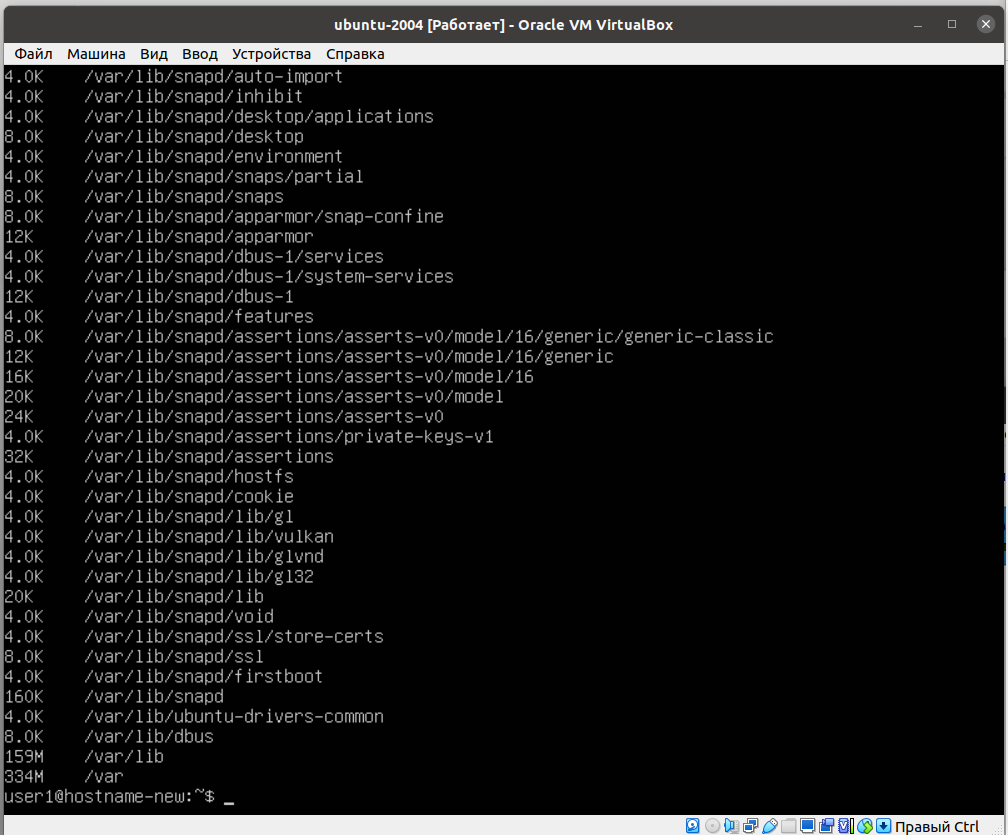
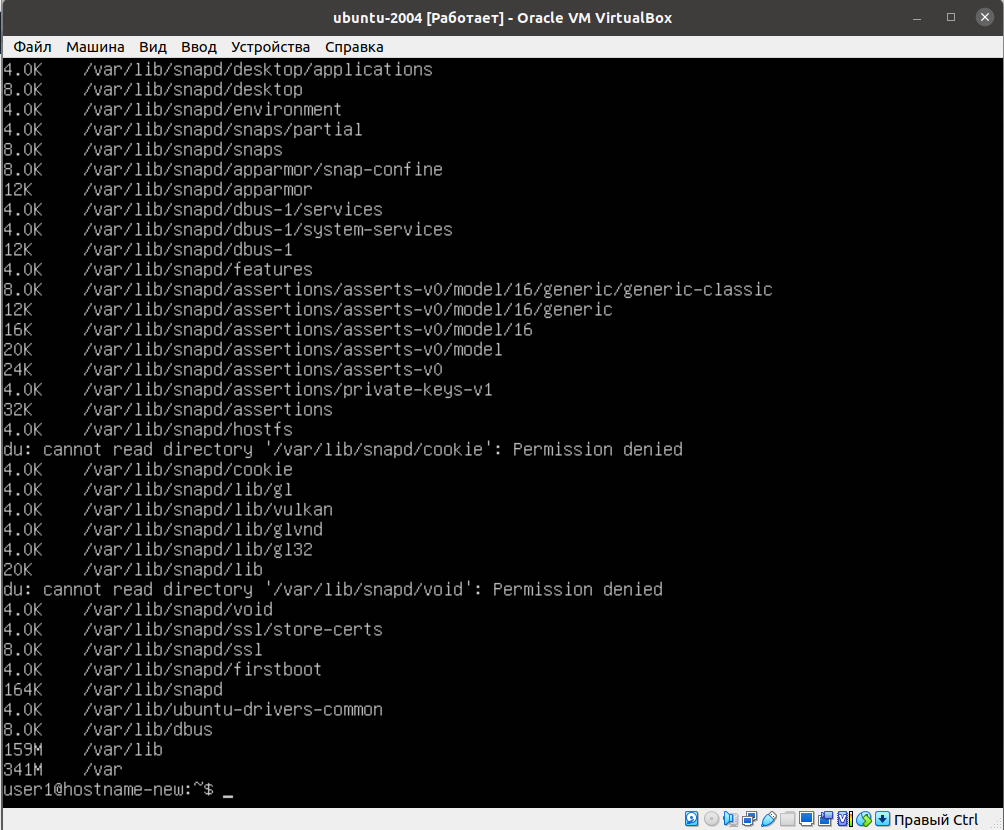
Add files via upload

diff --git a/src/report.md b/src/report.md
@@ -60,20 +60,18 @@ Part 3. Настройка сети ОС
 
 == Решение ==
 --------------
-- с помощью **vim** открываю файл passwd
-![id3](src/image/Part3p1.png)
-- в файле passwd меняем имя машины **user1**
+- с помощью **vim** открываю файл
+>       sudo vim ../../etc/hostname
+- в файле меняем имя машины **user1**
 ![id31](src/image/Part3p2.png)
 - смотрю текущие настройки даты и времени командой
 >       timedatectl 
 ![id32](src/image/Part3p3.png)
 - смотрю какие часовые пояса есть, командой
 >       timedatectl list-timezones
-![id33](src/image/Part3p5.png)
 ![id34](src/image/Part3p4.png)
 - меняю настройки командой
 >       sudo timedatectl set-timezone Europe/Moscow
-![id35](src/image/Part3p6.png)
 ![id36](src/image/Part3p7.png)
 - вывести список сетевых интерфейсов командой
 >       ip link show
@@ -157,6 +155,7 @@ Part 5. Использование команды sudo
 - Открываем следущий файл **/etc/hosts**, меняем **adm** на **hostname**
 ![id43](src/image/Part5p11.png)
 - Прикрепляю скрин изменений после **reboot**
+
 ![id44](src/image/Part5p12.png)
 
 
@@ -335,7 +334,8 @@ Part 9. Установка и использование утилит top, htop
     6. загрузку памяти **(MiB Mem) - 1975.8  Total**
     7. pid процесса занимающего больше всего памяти - **стобец %MEM PID 399**
 ![id70](src/image/Part9p12.png)
-- Что бы помсотреть какой процесс занимает больше всего памяти воспользуемся клавишей **x**. Выделяет жирным колонку, по которой выполняется сортировка. Пемемещаться по колонке сортировки клавишами **<>**
+
+- Что бы посмотреть какой процесс занимает больше всего памяти воспользуемся клавишей **x**. Выделяет жирным колонку, по которой выполняется сортировка. Пемемещаться по колонке сортировки клавишами **<>**
     8. pid процесса, занимающего больше всего процессорного времени - **столбец TIME+ PID 728**
 ![id69](src/image/Part9p13.png)
 - Запускаем команду
@@ -343,19 +343,33 @@ Part 9. Установка и использование утилит top, htop
 ![id671](src/image/Part9p14.png)
 - Для сортировки используем клавишу меню **F6**
 - Прикладываю скрины с сротировкой процессов по:
+
 - PID
+
 ![id672](src/image/Part9p15.png)
+
 - PERCENT_CPU
+
 ![id673](src/image/Part9p16.png)
+
 - PERCENT_MEM
+
 ![id674](src/image/Part9p17.png)
+
 - TIME
+
 ![id675](src/image/Part9p18.png)
+
 - Для фильтрации  используем клавишу меню **F4**. Фильтр по **sshd**
+
 ![id676](src/image/Part9p19.png)
+
 - Для фильтрации  используем клавишу меню **F3**. Фильтр по **syslog**
+
 ![id677](src/image/Part9p120.png)
+
 - Для добавления hostname, clock и uptime нажимаем **F2** и в настройках добавляем необходимые атрибуты на дашборд утилиты. Скрин после изменений
+
 ![id68](src/image/Part9p121.png)
 
 Part 10. Использование утилиты fdisk
@@ -438,15 +452,130 @@ Part 12. Использование утилиты du
 --------------
 
 - Для удобства считывания информации будем использовать утилиту **du** с флагом **-h**. Данный флаг показывает размер в единицах измерения удобных для человека.
-- смотрим размер папки **/home - 144K**
+- смотрим размер папки **/home - 128K**
 >       du -h /home
 ![id82](src/image/Part12p11.png)
-- смотрим размер папки **/var - 334M**
+- смотрим размер папки **/var - 341M**
 >       du -h /var
 ![id83](src/image/Part12p12.png)
-- смотрим размер папки **/var/log - 68M**
+- смотрим размер папки **/var/log - 76M**
 >       du -h /var/log
 ![id84](src/image/Part12p13.png)
 - смотрим размер каждого файла в папке **/var/log/\***
 >       du -h /var/log/*
 ![id85](src/image/Part12p14.png)
+
+
+
+Part 13. Установка и использование утилиты ncdu
+===========================
+
+== Задание ==
+--------------
+- Установить утилиту ncdu.
+- Вывести размер папок /home, /var, /var/log.
+- Размеры должны примерно совпадать с полученными в Part 12.
+- В отчёт вставить скрины с выводом использованных команд.
+
+== Решение ==
+--------------
+- Устанавливаем утилиту **ncdu**
+>       sudo apt install ncdu
+![id86](src/image/Part13p11.png)
+- Смотрим размер папки  **/home**
+>       ncdu /home
+![id86](src/image/Part13p12.png)
+- Смотрим размер папки  **/var**
+>       ncdu /var
+![id86](src/image/Part13p13.png)
+- Смотрим размер папки  **/var/log**
+>       ncdu /var/log
+![id86](src/image/Part13p14.png)
+
+
+Part 14. Работа с системными журналами
+===========================
+
+== Задание ==
+--------------
+
+- Открыть для просмотра:
+1. /var/log/dmesg
+2. /var/log/syslog
+3. /var/log/auth.log
+- Написать в отчёте время последней успешной авторизации, имя пользователя и метод входа в систему.
+- Перезапустить службу SSHd.
+- Вставить в отчёт скрин с сообщением о рестарте службы (искать в логах).
+
+== Решение ==
+--------------
+- Смотрим что в логах через **cat**. Можно открыть лог любым тескстовым редактором, например  **vim**
+>       cat /var/log/dmesg
+-  этот лог содержит информацию о драйверах устройств.
+![id99](src/image/Part14p11.png)
+- смотрим дальше
+>       cat /var/log/syslog
+- содержит глобальный системный журнал, в котором пишутся сообщения с момента запуска системы, от ядра Linux, различных служб, обнаруженных устройствах, сетевых интерфейсов и много другого.
+![id98](src/image/Part14p12.png)
+- открываем последний. Он содержит информацию об авторизации пользователей, включая удачные и неудачные попытки входа в систему
+>       cat /var/log/auth.log
+![id97](src/image/Part14p13.png)
+- Теперь посмотрим в логе **/var/log/auth.log** время поледней успешной авторизации и имя пользователя. Видим последний вход **user1 18 feb 16:56:16** по средством службы **systemd-logind**
+>       cat /var/log/auth.log
+![id96](src/image/Part14p15.png)
+- Можно посмотреть командой **grep** совпанедние по имени юзера или способу входа. Пример:
+>       grep systemd-logind /var/log/auth.log
+![id96](src/image/Part14p14.png)
+- Перезапускаем службу **sshd**
+>       sudo systemctl restart ssh
+- Смотрим в логах утилитой **grep** по паттерну **sshd**
+>       grep ssh /vat/log/auth.log
+![id95](src/image/Part14p16.png)
+
+
+Part 15. Использование планировщика заданий CRON
+===========================
+
+== Задание ==
+--------------
+- Используя планировщик заданий, запустите команду uptime через каждые 2 минуты.
+- Найти в системных журналах строчки (минимум две в заданном временном диапазоне) о выполнении.
+- Вывести на экран список текущих заданий для CRON.
+- Вставить в отчёт скрины со строчками о выполнении и списком текущих задач.
+- Удалите все задания из планировщика заданий.
+- В отчёт вставьте скрин со списком текущих заданий для CRON.
+
+== Решение ==
+--------------
+
+- Первым делом обновляем пакеты, устанавливаем **Cron**
+>       sudo apt update | sudo apt install cron
+- Убедимся, что он настроен для работы в фоновом режиме:
+>       sudo systemctl enable cron
+![id84](src/image/Part15p11.png)
+- После этого cron будет установлен в системе, а вы сможете начать составлять расписание задач
+
+**команды управления cron**
+| Команда         | Описание                                                               |
+------------------|---------                                                               |
+| crontab -e      | Редактирование или создание файла расписания для текущего пользователя |
+| crontab -l      | Вывод содержимого расписания текущего пользователя                     |
+| crontab -r      | Удаление файла расписания текущего пользователя                        |
+| crontab -u user |  Работа с расписаниями конкретных пользователей                        |
+
+- Запускаем файл с плинировщиком задач командой:
+>       sudo crontab -e
+- Первый запуск предложит выбрать текстовый редактор по умолчанию
+- Прописываем в файле команду uptime через каждые 2 минуты используя синтаксис планировщика
+![id93](src/image/Part15p12.png)
+- Команда начинает выполняться после сохранения и выхода из файла. Смотрим через **cat** файл с записами выполнения команды в планировщике
+>       cat /home/user1/tty.txt
+![id92](src/image/Part15p13.png)
+- В системных журналах смотрим строчки о выполнениих задач **CRON**
+![id103](src/image/Part15p16.png)
+- Вывожу список текущих заданий
+>       crontab -l
+![id101](src/image/Part15p14.png)
+- Удалаяем все задания из планировщика и выводим текущий список задний командами:
+>       crontab -r | crontab -l
+![id102](src/image/Part15p15.png)
